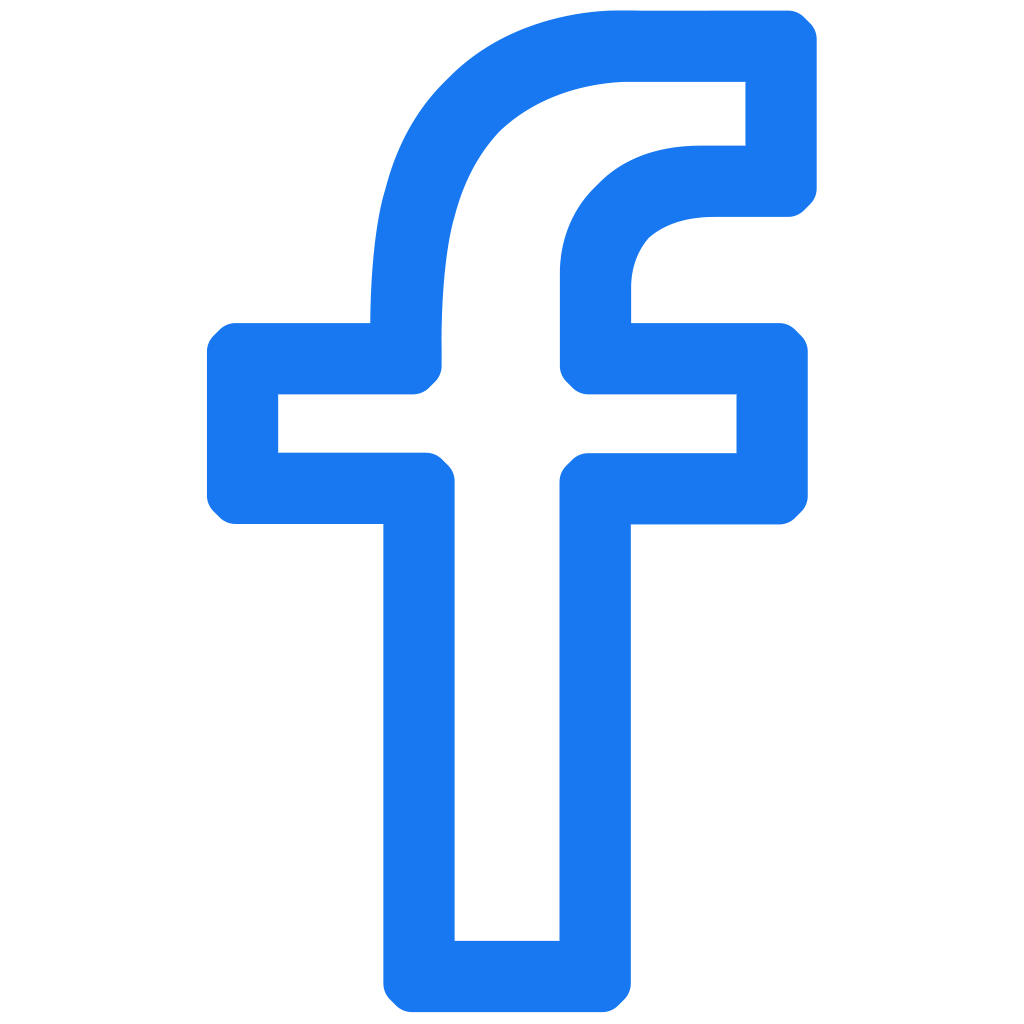
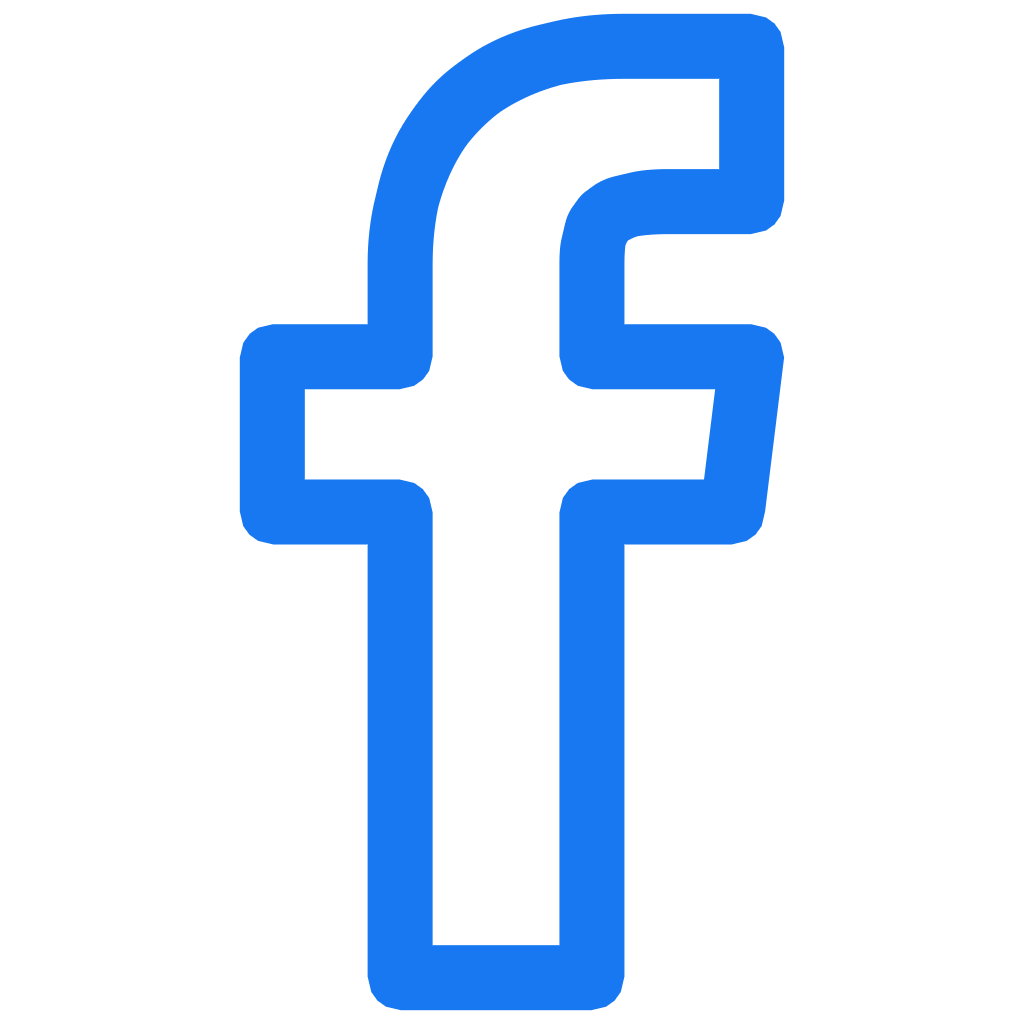
left-menu completed

diff --git a/src/app/menu/menu.component.scss b/src/app/menu/menu.component.scss
@@ -3,45 +3,61 @@
 #logo{
   width: 2em;
   margin: 0.5em 1em;
+  display: none;
 }
 .progressbar{
-  background: $c-accent2;
+  background: $c-base-dark;
   background-blend-mode: screen;
   height: 5px;
-  width: 40%;
+  width: 5px;
   margin-bottom: 1em;
   position: absolute;
+  top: 0;
+  right: 0;
   transition: all 0.2s ease;
-  border-bottom-right-radius: 10px;
+  border-bottom-left-radius: 10px;
   z-index: 9;
-  &:before{
-    content: "";
-    background: $c-accent3;
-    background-blend-mode: screen;
-    height: 3px;
-    width: 99%;
-    display: block;
-    border-bottom-right-radius: 10px;
-    position: absolute;
-    z-index: 10;
-  }
-  &:after{
-    content: "";
-    background: $c-accent1;
-    background-blend-mode: screen;
-    height: 4px;
-    width: 99.5%;
-    display: block;
-    border-bottom-right-radius: 10px;
-    position: absolute;
-    z-index: 8;
-  }
+  // &:before{
+  //   content: "";
+  //   background: $c-accent3;
+  //   background-blend-mode: screen;
+  //   height: 100%;
+  //   width: 3px;
+  //   display: block;
+  //   border-bottom-right-radius: 10px;
+  //   position: absolute;
+  //   z-index: 10;
+  // }
+  // &:after{
+  //   content: "";
+  //   background: $c-accent1;
+  //   background-blend-mode: screen;
+  //   height: 4px;
+  //   width: 100%;
+  //   display: block;
+  //   border-bottom-right-radius: 10px;
+  //   position: absolute;
+  //   z-index: 8;
+  // }
 }
 .menu-container{
   display: flex;
   justify-content: space-between;
   z-index: 1;
   margin-top: 5px;
+  position: absolute;
+  top: 0;
+  right: 0;
+  svg.hamburger-menu{
+    height: 2rem;
+    width: 2.5rem;
+    position: absolute;
+    top: 2.5em;
+    right: 2.5em;
+    image{
+      height: 2rem;
+    }
+  }
   nav{
     display: flex;
     width: 100%;
@@ -54,7 +70,7 @@
       //text-transform: uppercase;
       font-weight: 800;
       font-size: 0.8em;
-      border-left: 1px solid rgba($c-base-light, 0.3);
+      //border-left: 1px solid rgba($c-base-light, 0.3);
       &:hover{
         &:before{
           content: '';

diff --git a/src/app/section-hi/section-hi.component.html b/src/app/section-hi/section-hi.component.html
@@ -1,5 +1,27 @@
 <section id="start"></section>
 <section id="hi" #hi>
+    <div id="left-nav">
+      <svg class="logo-top">       
+        <image xlink:href="../assets/logo.svg" />    
+      </svg>
+      <svg class="scroll-mouse">       
+        <image xlink:href="../assets/scroll-down.svg" />    
+      </svg>
+      <div class="socials">
+        <div class="social" matTooltip="jjk.io" matTooltipClass="contact-tooltip" matTooltipPosition="after">
+            <img src="../assets/fb.png" alt="" class="layer1" />
+        </div>
+        <div class="social" matTooltip="in/jojko" matTooltipClass="contact-tooltip" matTooltipPosition="after">
+            <img src="../assets/in.png" alt="" class="layer1" />
+        </div>
+        <div class="social" matTooltip="jojk0" matTooltipClass="contact-tooltip" matTooltipPosition="after">
+            <img src="../assets/ig.png" alt="" class="layer1" />
+        </div>
+        <div class="social" matTooltip="jojk0" matTooltipClass="contact-tooltip" matTooltipPosition="after">
+            <img src="../assets/gh.png" alt="" class="layer1" />
+        </div>
+    </div>
+    </div>
     <div class="cnt">
       <svg class="logo">       
         <image xlink:href="../assets/logo-raw.svg" />    
@@ -7,5 +29,4 @@
       <div class="intro">Hey! I’m Jacob.</div>
       <div class="desc"><p>a full-stack developer</p><p>and web designer.</p></div>
     </div>
-    <img src="../assets/scroll.png" alt="scroll" id="scroll-icon" />
 </section>

diff --git a/src/app/section-hi/section-hi.component.scss b/src/app/section-hi/section-hi.component.scss
@@ -55,3 +55,54 @@ mat-chip-list mat-chip{
       left: 47%;
     }
   }
+  #left-nav{
+    display: flex;
+    flex-direction: column;
+    justify-content: space-between;
+    align-items: center;
+    position: absolute;
+    top: 0;
+    left: 0;
+    height: 100vh;
+    svg.logo-top{
+      width: 3em;
+      height: 3em;
+      margin: 1em;
+      image{
+        width: 3em;
+        height: 3em;
+      }
+    }
+    svg.scroll-mouse{
+      margin: 2em;
+      width: 1.4em;
+      height: 15em;
+      image{
+        width: 1.4em;
+        height: 15em;
+      }
+    }
+    .socials{
+      display: flex;
+      flex-direction: column;
+      margin: 1em;
+      .social{
+          position: relative;
+          width: 1.7em;
+          height: 1.7em;
+          margin: 1em;
+          filter: brightness(0) saturate(100%) invert(99%) sepia(99%) saturate(413%) hue-rotate(81deg) brightness(106%) contrast(106%);
+          transition: all 0.2s ease;
+          .layer1{
+              position: absolute;
+              width: 100%;
+          }
+          &:hover{
+              filter: none;
+              .layer1{
+                  filter: none;
+              }
+          }
+      }
+  }
+  }

diff --git a/src/app/menu/menu.component.html b/src/app/menu/menu.component.html
@@ -1,10 +1,12 @@
-<div class="progressbar" id="progressbar"></div>
+<div class="progressbar" id="progressbar" #progressbar [ngStyle]="{'height': progressbarHeight+'vh'}"></div>
 <div class="menu-container">
+  <svg class="hamburger-menu">       
+    <image xlink:href="../assets/menu.svg" />    
+  </svg>
   <nav>
-    <img src="../assets/logo-4.png" alt="Logo" id="logo" />
-    <div class="menu-item" [routerLink]="['/']"><a>Hi!</a></div>
-    <div class="menu-item" [routerLink]="['/']" fragment="what-i-do"><a>What I do?</a></div>
-    <div class="menu-item" [routerLink]="['/']" fragment="what-i-did"><a>What I've made?</a></div>
-    <div class="menu-item" [routerLink]="['/']" fragment="get-in-touch"><a>Say Hi! 👋</a></div>
+    <div class="menu-item" [routerLink]="['/']"></div>
+    <div class="menu-item" [routerLink]="['/']" fragment="what-i-do"></div>
+    <div class="menu-item" [routerLink]="['/']" fragment="what-i-did"></div>
+    <div class="menu-item" [routerLink]="['/']" fragment="get-in-touch"></div>
   </nav>
 </div>

diff --git a/src/app/menu/menu.component.ts b/src/app/menu/menu.component.ts
@@ -1,4 +1,4 @@
-import { Component, OnInit } from '@angular/core';
+import { Component, OnInit, HostListener, ViewChild, ElementRef } from '@angular/core';
 
 @Component({
   selector: 'app-menu',
@@ -7,9 +7,24 @@ import { Component, OnInit } from '@angular/core';
 })
 export class MenuComponent implements OnInit {
 
+  progressbarHeight: number;
+
   constructor() { }
 
   ngOnInit(): void {
   }
 
+  @HostListener('window:scroll', ['$event.target'])
+  onScroll(targetElement: string) {
+    this.progressbarUpdate();
+  }
+  
+  progressbarUpdate(){
+    let currentPos = window.pageYOffset || document.documentElement.scrollTop;
+    let pageHeight = document.body.firstElementChild.getBoundingClientRect().height;
+    currentPos = currentPos+(document.body.clientHeight*(currentPos/(pageHeight-document.body.clientHeight)));
+    let progress = (currentPos/pageHeight)*100;
+    this.progressbarHeight = progress;
+  }
+  
 }

diff --git a/src/app/app.component.ts b/src/app/app.component.ts
@@ -9,28 +9,11 @@ import { MainComponent } from './main/main.component';
 })
 
 export class AppComponent implements AfterViewInit {
-  
-
 
   constructor() { }
 
   ngAfterViewInit() {
 
-  }
-
-
-  @HostListener('window:scroll', ['$event.target'])
-  onScroll(targetElement: string) {
-    this.progressbarUpdate(targetElement);
-  }
-  
-  progressbarUpdate(e){
-    let progressbar = document.getElementById('progressbar');
-    let currentPos = window.pageYOffset || document.documentElement.scrollTop;
-    let pageHeight = document.body.firstElementChild.getBoundingClientRect().height;
-    currentPos = currentPos+(document.body.clientHeight*(currentPos/(pageHeight-document.body.clientHeight)));
-    let progress = (currentPos/pageHeight)*100;
-    progressbar.style.width = progress+"%";
   }
 
 }

diff --git a/src/styles.scss b/src/styles.scss
@@ -25,6 +25,9 @@ body {
   cursor: $cur;
   color: $c-text;
 }
+::-webkit-scrollbar {
+  display: none;
+}
 
 .mat-typography{
   font-family: "Quicksand";
